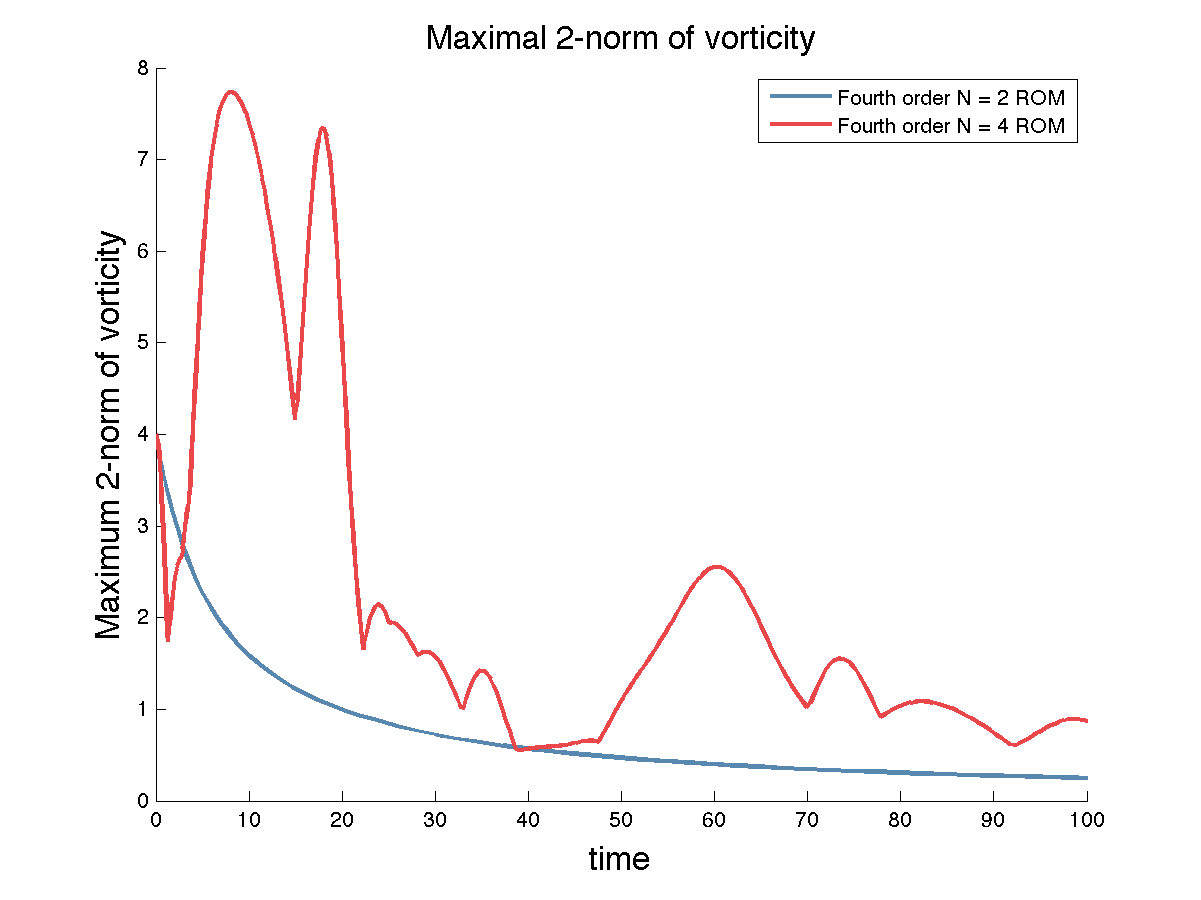
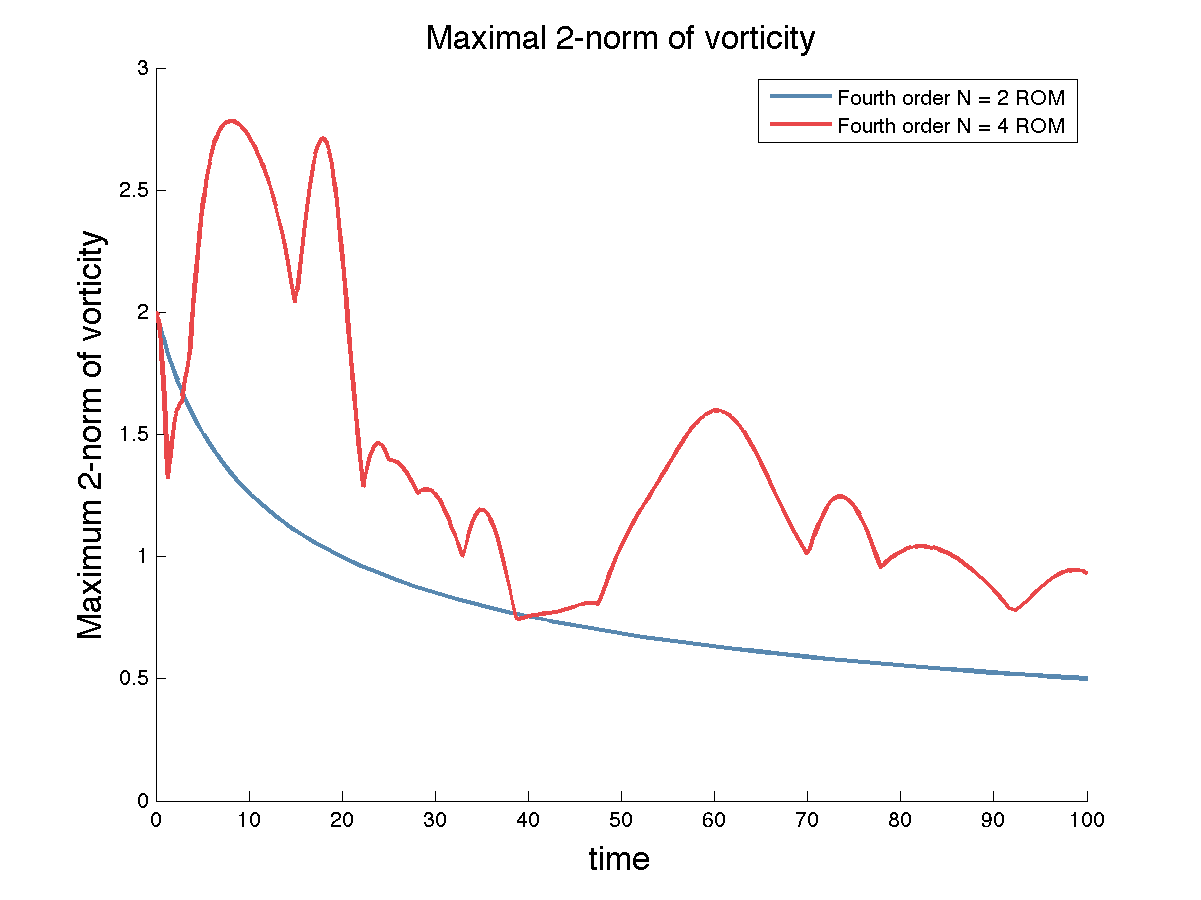
fixed typo in vorticity script

diff --git a/KdV/Figures/long_time_error20.m b/KdV/Figures/long_time_error20.m
@@ -59,10 +59,10 @@ err2 = sum((u_2_real-u_real(:,1:length(t2))).^2,1)./sum(u_real(:,1:length(t2)).^
 err4 = sum((u_4_real-u_real(:,1:length(t4))).^2,1)./sum(u_real(:,1:length(t4)).^2,1);
 
 hold off
-plot(t_markov,err_markov,'k.')
+plot(t_markov,err_markov,'k')
 hold on
-plot(t2,err2,'k*')
-plot(t4,err4,'ko')
+plot(t2,err2,'k-.')
+plot(t4,err4,'k--')
 legend('Markov','2nd order ROM','4th order ROM','location','northwest')
 xlabel('time','fontsize',16)
 ylabel('Real space relative global error','fontsize',16)

diff --git a/Euler/analysis/vorticity.m b/Euler/analysis/vorticity.m
@@ -58,7 +58,7 @@ for i = 1:s(end)
     curl = 1j*(k2.*u_full3 - k3.*u_full2);
     real_curl = ifftn_norm(curl);
     vort1(i) = max(abs(real_curl(:)));
-    vort_2norm = sum(real_curl.^2,4);
+    vort_2norm = sqrt(sum(real_curl.^2,4));
     vort2(i) = max(vort_2norm(:));
     
 end
